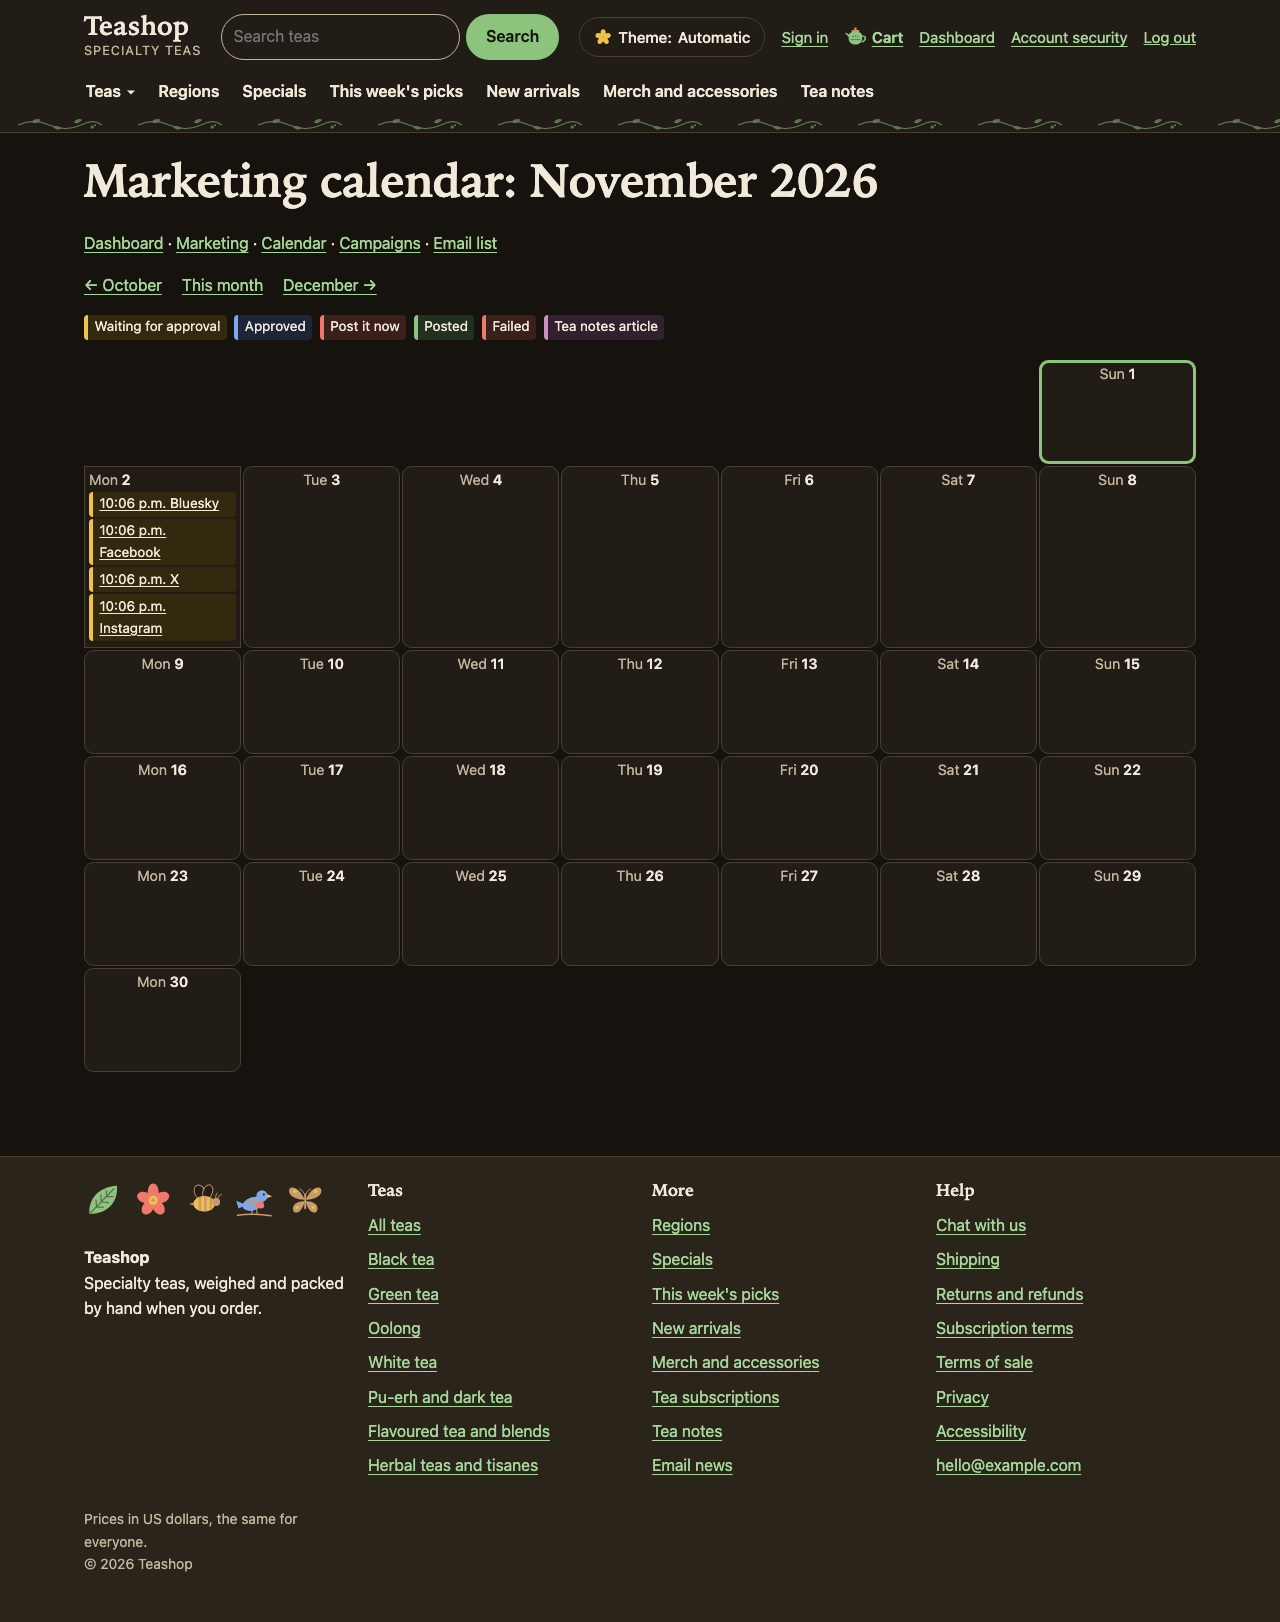
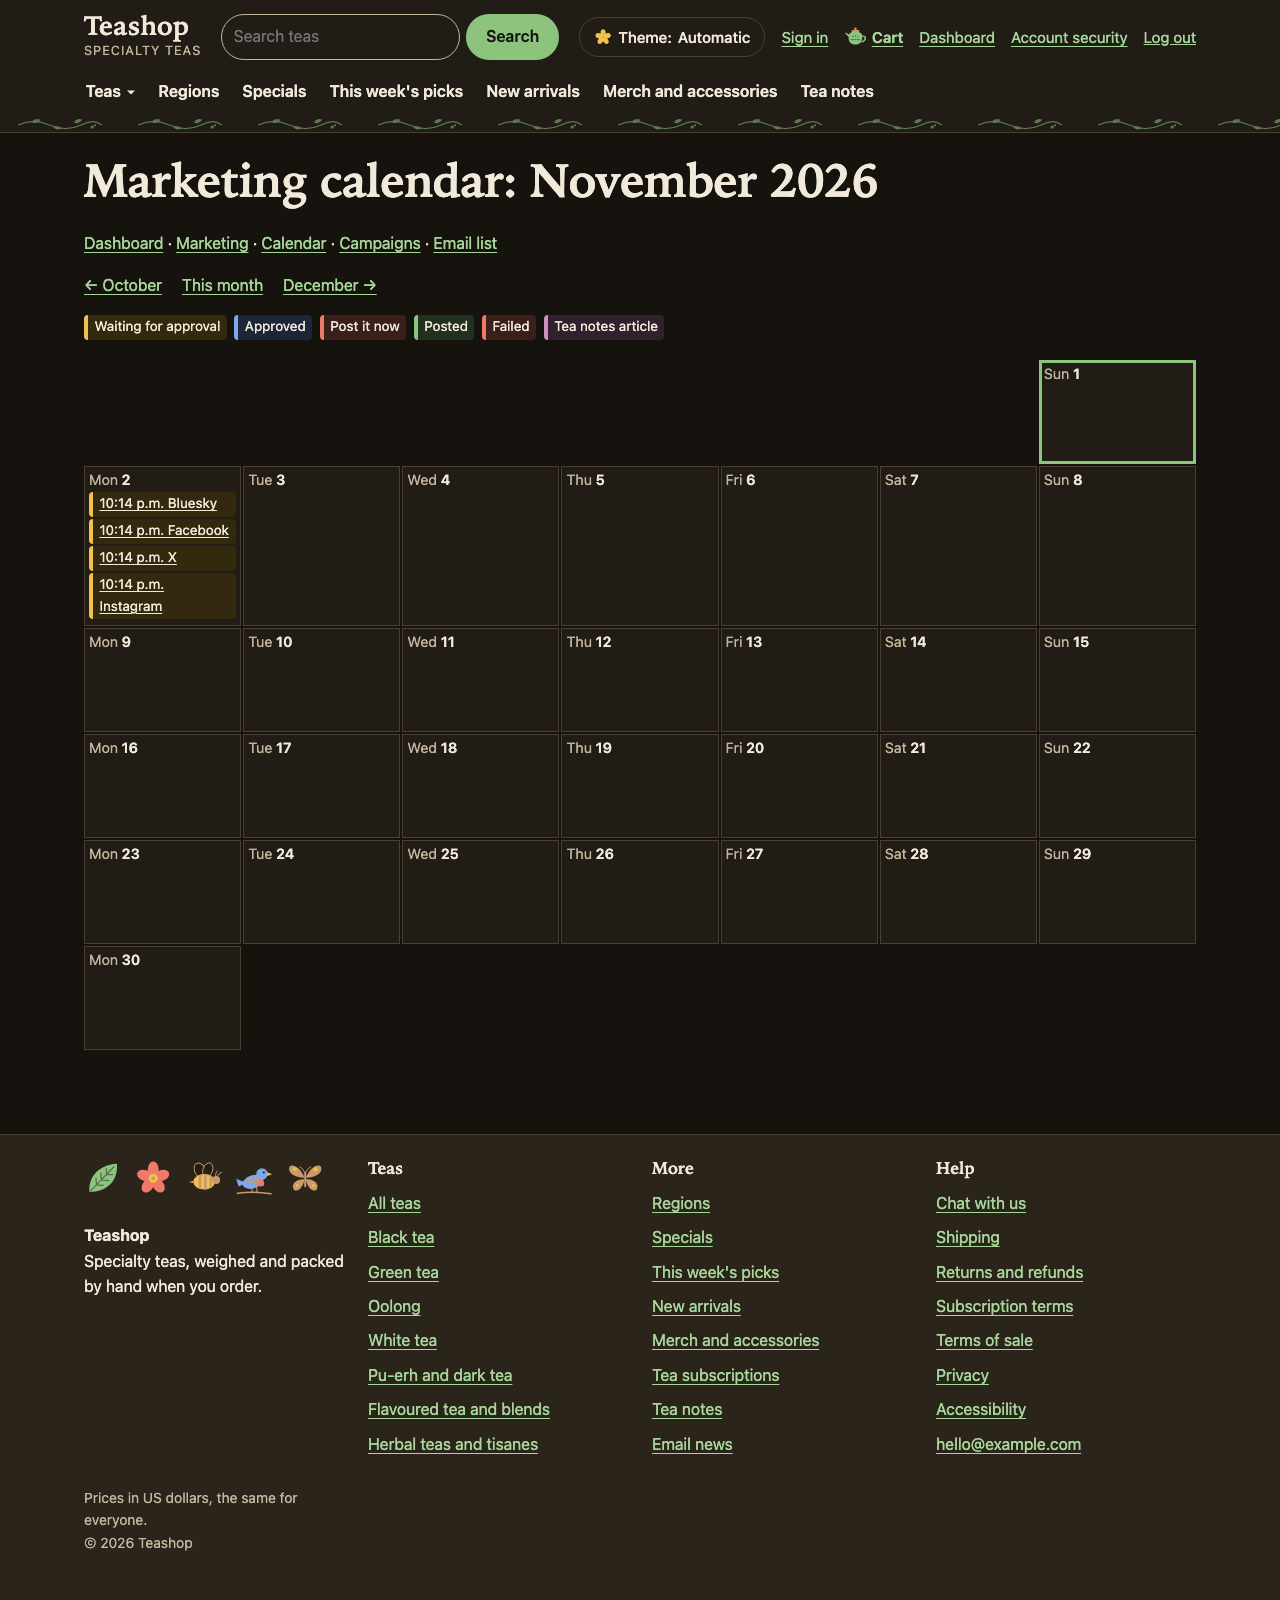
Give marketing calendar days without posts the same style as the rest
Days with nothing on them used the class "empty", which picked up site.css's empty-state panel style (centred, padded, rounded). Renamed it to "day-empty" in the template and the phone rule that hides such days, and replaced the two desktop calendar milestone shots.

diff --git a/apps/marketing/templates/marketing/owner/calendar.html b/apps/marketing/templates/marketing/owner/calendar.html
@@ -17,7 +17,7 @@
   {% for week in weeks %}
     {% for day, items in week %}
       {% if day %}
-        <li class="day{% if day == today %} today{% endif %}{% if not items %} empty{% endif %}">
+        <li class="day{% if day == today %} today{% endif %}{% if not items %} day-empty{% endif %}">
           <h2 class="date"><span class="weekday">{{ day|date:"D" }}</span> {{ day|date:"j" }}{% if day == today %} <span class="visually-hidden">(today)</span>{% endif %}</h2>
           {% if items %}
             <ul class="plain-list">

diff --git a/static/css/marketing.css b/static/css/marketing.css
@@ -50,5 +50,6 @@ fieldset.codes > p { flex-basis: 100%; margin: 0 0 0.25rem; }
 @media (max-width: 48rem) {
   .month { grid-template-columns: 1fr; }
   .month .day { min-height: 0; }
-  .month .day.empty, .month .day.outside { display: none; }
+  /* Not plain "empty": site.css styles that as an empty-state panel. */
+  .month .day.day-empty, .month .day.outside { display: none; }
 }
